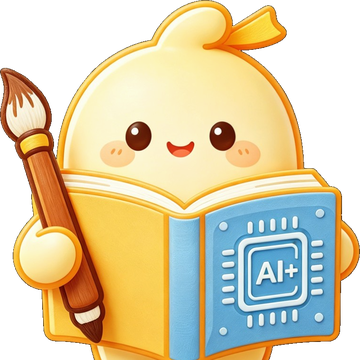
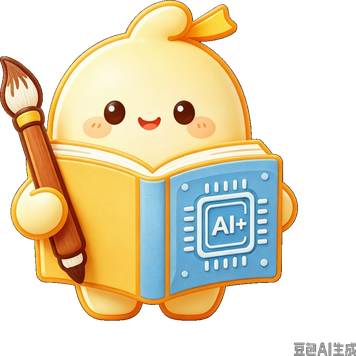
fix(douyin): retail 5003003 combo save and update AI mascot assets
Use open_biz_type 0 for retail group-buy, collapse duplicate combo groups,
and avoid duplicate attr combo_rule when SKU commodity is set. Default
single commodity group in auto-fill and wizard. Replace idle/writing mascot
with user-provided图2 static and图1 GIF.

diff --git a/web版/merchant-erp/vite-plugins/douyinMerchantGateway.ts b/web版/merchant-erp/vite-plugins/douyinMerchantGateway.ts
@@ -2021,6 +2021,39 @@ function buildDouyinProductComboRule(
  * 部分类目下 goodlife 要求团购 `combo_rule` 至少 2 个商品组；仅 1 组时拆成 A/B（内容同源）。
  * 与来客里手动复制第二组等价。`DOUYIN_GOODS_COMBO_SINGLE_GROUP_AUTO_DUP=0|false|off` 关闭。
  */
+/**
+ * 零售类目：多组内容完全一致时压成 1 组（自动填满曾默认 2 组同源）。
+ */
+function collapseRetailDuplicateComboGroups(
+  comboRule: Record<string, unknown> | null,
+  categoryId: string,
+): Record<string, unknown> | null {
+  if (!comboRule || !categoryRetailComboAttrNormalize(categoryId)) return comboRule
+  const groups = (comboRule as { groups?: unknown[] }).groups
+  if (!Array.isArray(groups) || groups.length <= 1) return comboRule
+  const sig = (g: Record<string, unknown>) => {
+    const list = Array.isArray(g.item_list) ? g.item_list : Array.isArray(g.items) ? g.items : []
+    return JSON.stringify(
+      list.map((it) => {
+        const r = it as Record<string, unknown>
+        return {
+          n: String(r.name ?? ''),
+          p: comboItemPriceFenFromRow(r, 0),
+          c: comboItemCountFromRow(r),
+          u: String(r.unit ?? ''),
+        }
+      }),
+    )
+  }
+  const first = groups[0] as Record<string, unknown>
+  if (!first || typeof first !== 'object') return comboRule
+  const s0 = sig(first)
+  if (groups.every((g) => g && typeof g === 'object' && sig(g as Record<string, unknown>) === s0)) {
+    return { groups: [JSON.parse(JSON.stringify(first))] }
+  }
+  return comboRule
+}
+
 function categoryComboSingleGroupAutoDup(categoryId: string): boolean {
   const cid = String(categoryId ?? '').trim()
   /** 零售 5003003 等：单组自动克隆 A/B 易触发「数量/单位」误报，默认关闭；其它团购类目仍默认开启 */
@@ -2135,7 +2168,7 @@ function normalizeComboItemRowForAttrJson(
           unit: '份',
           count_unit: '份',
         }
-      : { name, price, count, unit: '份', count_unit: '份' }
+      : { name, price, count, quantity: count, unit: '份', count_unit: '份' }
   const pid = String(row.product_id ?? '').trim()
   if (pid) item.product_id = pid
   const sid = String(row.sku_id ?? '').trim()
@@ -2466,10 +2499,12 @@ function normalizeComboGroupsForProductBody(
           )
         : row,
     )
+    const pr = String(gr.pick_rule ?? gr.pickRule ?? '').trim()
     return {
       group_name: String(gr.group_name ?? '商品组').trim().slice(0, 80) || '商品组',
       total_count: tc,
       option_count: oc,
+      ...(pr ? { pick_rule: pr } : {}),
       item_list: normItems,
     }
   })
@@ -2523,6 +2558,15 @@ function finalizeGroupBuyComboPayloads(
         skuAttrMap[key] = commodityJson
       }
     }
+  }
+
+  /** 零售：commodity 已填时不再重复写 attr.combo_rule，避免双份校验不一致 */
+  if (
+    categoryRetailComboAttrNormalize(categoryId) &&
+    !comboRuleAttrJsonIsEffectivelyEmpty(commodityJson) &&
+    (mergedProductAttrs.combo_rule ?? '').trim() === commodityJson.trim()
+  ) {
+    delete mergedProductAttrs.combo_rule
   }
 
   return normalized
@@ -2880,7 +2924,11 @@ async function resolveProductAccountNameForSave(
  * goodlife product/save 的 `open_biz_type`：与 template.get 文档一致，**1 = 组合券包**。
  * 代金券/次卡等若误传 1，抖音常返回泛化「服务器打瞌睡」类错误。团购（product_type=1）与官方示例对齐默认 1。
  */
-function resolveOpenBizTypeForGoodlifeSave(erp: Record<string, unknown>, productType: number): number {
+function resolveOpenBizTypeForGoodlifeSave(
+  erp: Record<string, unknown>,
+  productType: number,
+  categoryId: string,
+): number {
   const forced = process.env.DOUYIN_GOODS_SAVE_OPEN_BIZ_TYPE?.trim()
   if (forced !== undefined && forced !== '') {
     const n = Number(forced)
@@ -2891,6 +2939,8 @@ function resolveOpenBizTypeForGoodlifeSave(erp: Record<string, unknown>, product
     const n = Number(raw)
     if (Number.isFinite(n) && n >= 0 && n <= 99) return Math.floor(n)
   }
+  /** 零售团购 5003003：open_biz_type=1 为「组合券包」，误传易触发业务规则/套餐数量类误报 */
+  if (productType === 1 && categoryRetailComboAttrNormalize(categoryId)) return 0
   return productType === 1 ? 1 : 0
 }
 
@@ -2973,6 +3023,7 @@ async function buildGoodlifeProductSaveBody(
     if (splitRule) comboRule = splitRule
     comboRule = expandGroupBuyComboRuleMinTwoGroups(comboRule, category_id)
     comboRule = resolveComboRuleFromErpOverrides(erp, comboRule)
+    comboRule = collapseRetailDuplicateComboGroups(comboRule, category_id)
   } else if (product_type === 2) {
     /**
      * 代金券（product_type=2）：前端不传 package_combo；抖音仍常校验 `combo_rule` / 模板槽位非空。
@@ -3061,7 +3112,7 @@ async function buildGoodlifeProductSaveBody(
     category_id,
     product_type,
     biz_line: 1,
-    open_biz_type: resolveOpenBizTypeForGoodlifeSave(erp, product_type),
+    open_biz_type: resolveOpenBizTypeForGoodlifeSave(erp, product_type, category_id),
     out_id,
     account_name,
     sold_start_time: nowMs,
@@ -3355,6 +3406,12 @@ function summarizeDouyinProductSaveForLog(
     product_type: product?.product_type,
     category_id: product?.category_id,
     open_biz_type: product?.open_biz_type,
+    open_biz_type_note:
+      product?.open_biz_type === 0
+        ? 'retail_default_0'
+        : product?.open_biz_type === 1
+          ? 'combo_coupon_1'
+          : 'other',
     combo_in_product_body: Boolean(product?.combo_rule),
     combo_attr_json_shape,
     combo_sku_commodity_shape,

diff --git a/web版/merchant-erp/src/components/MeooAgentMascot.tsx b/web版/merchant-erp/src/components/MeooAgentMascot.tsx
@@ -8,13 +8,15 @@ function resolveState(aiSending: boolean, inputDraft: string): MascotState {
   return 'idle'
 }
 
+/** 图2：待机静态（3D 卡通，透明底 PNG） */
 const IDLE_SRC = '/meoo-agent-idle.png'
+/** 图1：输入/生成中动图（2D 书写 GIF，笔刷已在动图内） */
 const WRITING_SRC = '/meoo-agent-writing.gif'
 
 /**
  * 墨典智能体输入区旁吉祥物：
- * - 未输入：图2 静态卡通（透明底，仅中间形象）
- * - 输入中 / 生成中：书写动图
+ * - idle：图2 待机静态
+ * - userTyping / outputting：图1 书写动图
  */
 export function MeooAgentMascot({
   aiSending,

diff --git a/web版/merchant-erp/src/pages/douyin/DouyinProductCreateWizard.tsx b/web版/merchant-erp/src/pages/douyin/DouyinProductCreateWizard.tsx
@@ -365,10 +365,7 @@ function newId(prefix: string) {
 
 function emptySkuCommodityForm(): SkuCommodityFormGroup[] {
   const mkItem = (): SkuCommodityFormItem => ({ id: newId('sci'), name: '', priceCents: '', count: '1' })
-  return [
-    { id: newId('scg'), groupName: '', totalCount: '1', optionCount: '1', items: [mkItem()] },
-    { id: newId('scg'), groupName: '', totalCount: '1', optionCount: '1', items: [mkItem()] },
-  ]
+  return [{ id: newId('scg'), groupName: '', totalCount: '1', optionCount: '1', items: [mkItem()] }]
 }
 
 function parseSkuCommodityFormFromJson(raw: string): SkuCommodityFormGroup[] | null {

diff --git a/web版/merchant-erp/src/lib/douyinTemplateAutoFill.ts b/web版/merchant-erp/src/lib/douyinTemplateAutoFill.ts
@@ -133,7 +133,8 @@ export function buildSkuCommodityGroupsForAutoFill(
     optionCount: '1',
     items: [{ id: newId('sci'), name: nm, priceCents: price, count: '1' }],
   })
-  return [mk(), mk()]
+  /** 零售类目默认单组即可；双组同源易触发抖音「数量/单位」误报 */
+  return [mk()]
 }
 
 export function skuCommodityFormToJson(groups: SkuCommodityFormGroup[]): string {

diff --git a/web版/merchant-erp/scripts/generate-meoo-writing-gif.py b/web版/merchant-erp/scripts/generate-meoo-writing-gif.py
@@ -1,5 +1,9 @@
 #!/usr/bin/env python3
-"""从 meoo-agent-idle.png 生成书写动图：仅笔刷区域沿书面轨迹运动，身体静止。"""
+"""可选：从 meoo-agent-idle.png 程序化生成书写动图。
+
+线上默认使用设计师提供的 `public/meoo-agent-writing.gif`（图1），
+仅在需要替换动图且没有新 GIF 时运行本脚本。
+"""
 from __future__ import annotations
 
 from pathlib import Path
